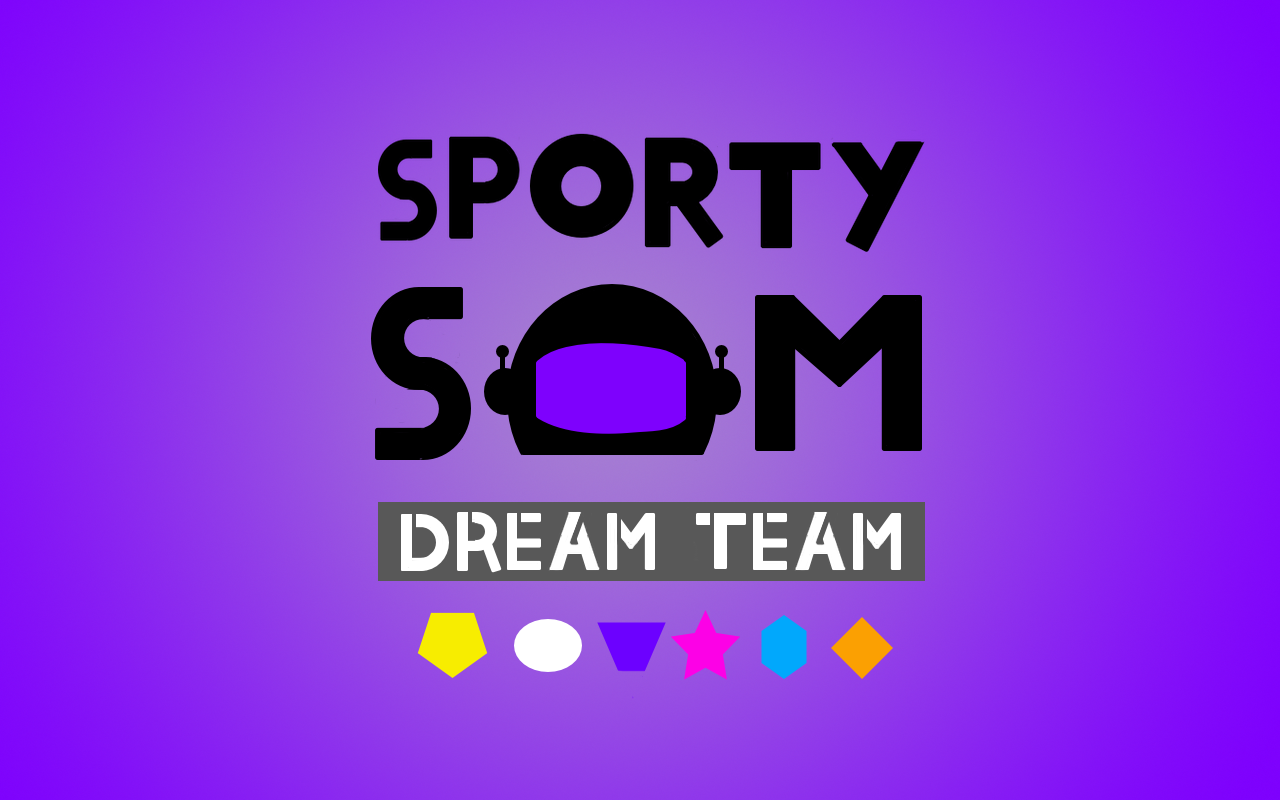
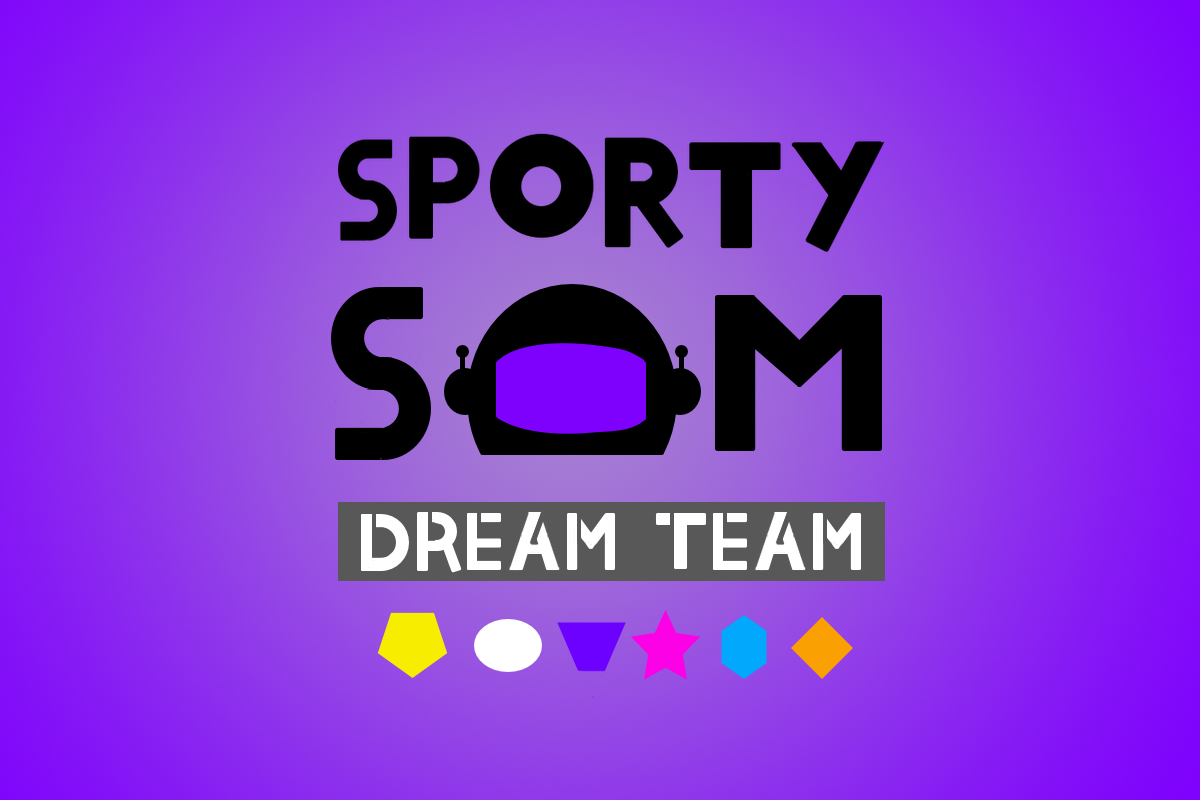
Some UI changes

diff --git a/src/components/menu-window.js b/src/components/menu-window.js
@@ -75,13 +75,13 @@ function MenuWindowMain({menuItems, pageID}) {
         </OverlayTrigger>
         <Modal size="md" show={show} onHide={handleClose} centered scrollable>
           <Modal.Header className="justify-content-center">
-            <Modal.Title style={{textAlign: "center", color: "#017BFF"}}>
-              <div style={{color: "#017BFF"}}>
+            <Modal.Title style={{textAlign: "center"}}>
+              <div>
                 <ResponsiveHeader level={1}>Menu</ResponsiveHeader>
               </div>
             </Modal.Title>
           </Modal.Header>
-          <Modal.Body style={{textAlign: "justify", color: "#017BFF"}}>
+          <Modal.Body style={{textAlign: "justify"}}>
             <section>
               <ImageList rowHeight="auto" gap={5} cols={ResponsiveGridColumns(3, menuLinks.length, [860, 560])}>
                 {menuLinks.map((value, index) => (

diff --git a/src/pages/explore.js b/src/pages/explore.js
@@ -36,7 +36,7 @@ export default function Explore() {
                             {
                                 franchises.map((franchise) => (
                                     <ImageListItem>
-                                        <Button aria-label={franchise["name"]} className={`m-2 view img-button`} href={franchise["slug"]}>
+                                        <Button aria-label={franchise["name"]} className={`m-2 view img-button franchise-cover`} href={franchise["slug"]}>
                                             <img
                                                 className={`d-block w-100`}
                                                 src={franchise["cover"]}

diff --git a/src/styles/_variables.scss b/src/styles/_variables.scss
@@ -1,7 +1,7 @@
-$primaryColor: #017BFF;
-$primaryColorTransparent: rgba(1, 123, 255, 0.80);
-$secondaryColor: #01A5FF;
-$secondaryColorTransparent: rgba(1, 165, 255, 0.80);
+$primaryColor: #00F;
+$primaryColorTransparent: rgba(0, 0, 255, 0.80);
+$secondaryColor: rgb(128, 1, 253);
+$secondaryColorTransparent: rgba(128, 1, 253, 0.80);
 $shadow: -5px 5px 10px 5px rgba(0, 0, 0, 0.2);
 $shadowReverse: 5px 5px 10px 5px rgba(0, 0, 0, 0.2);
 $shadowCenter: 0px 5px 10px 5px rgba(0, 0, 0, 0.2);

diff --git a/src/components/franchise-library.js b/src/components/franchise-library.js
@@ -45,7 +45,8 @@ export default function FranchiseLibrary(props) {
     infinite: false,
     speed: 500,
     slidesToShow: 3,
-    slidesToScroll: 1
+    slidesToScroll: 1,
+    swipeToSlide: true
   };
   
   return(

diff --git a/src/styles/_layout.scss b/src/styles/_layout.scss
@@ -492,3 +492,8 @@ li .btn:focus {
     text-align: justify;
   }
 }
+
+.franchise-cover,
+.franchise-cover:hover {
+  border: 5px solid rgb(230, 230, 230);
+}
